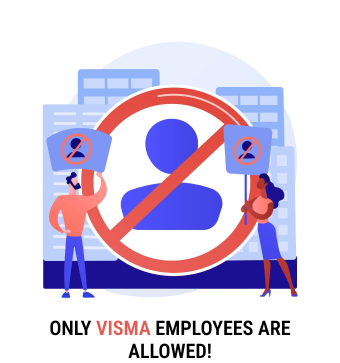
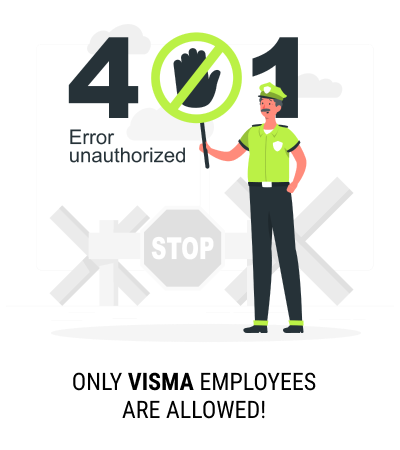
* Updated history daysUntil text calculation - to update each time user comes to history screen * Changed not authorised user image * Version update

diff --git a/history.js b/history.js
@@ -27,7 +27,7 @@ document.addEventListener("DOMContentLoaded", () => {
   // Calculate days until event
   function calculateDaysUntil(startDate) {
     const start = new Date(startDate);
-    const now = new Date("2024-12-17T08:37:36+02:00");
+    const now = new Date();
     const diffTime = start - now;
     const diffDays = Math.ceil(diffTime / (1000 * 60 * 60 * 24));
     return diffDays;
@@ -40,18 +40,9 @@ document.addEventListener("DOMContentLoaded", () => {
     "Neapmokamos atostogos": "Unpaid Leave",
   };
 
-  // Calculate number of days between dates
-  function calculateDays(startDate, endDate) {
-    const start = new Date(startDate);
-    const end = new Date(endDate);
-    const diffTime = Math.abs(end - start);
-    const diffDays = Math.ceil(diffTime / (1000 * 60 * 60 * 24)) + 1;
-    return diffDays;
-  }
-
   // Sort history items into upcoming and previous
   function sortHistoryItems(items) {
-    const now = new Date("2024-12-17T08:54:56+02:00");
+    const now = new Date();
     const sorted = items.reduce(
       (acc, item) => {
         const startDate = new Date(item.startDate);
@@ -111,17 +102,31 @@ document.addEventListener("DOMContentLoaded", () => {
     return historyItem;
   }
 
-  // Load and display email history
-  try {
-    if (!chrome.storage || !chrome.storage.local) {
-      console.error("Chrome storage is not available");
-      showEmptyState();
-      return;
-    }
+  // Update daysUntil dynamically
+  function updateDaysUntil() {
+    const upcomingItems = document.querySelectorAll(".history-item.upcoming");
+    upcomingItems.forEach((item) => {
+      const startDateText = item
+        .querySelector(".history-item-date")
+        .textContent.split(" - ")[0];
+      const startDate = new Date(startDateText);
+      const daysUntilText = item.querySelector(".history-item-days");
+      if (daysUntilText) {
+        const daysUntil = calculateDaysUntil(startDate);
+        daysUntilText.textContent =
+          daysUntil === 0
+            ? "Now"
+            : daysUntil === 1
+            ? "Tomorrow"
+            : `In ${daysUntil} days`;
+      }
+    });
+  }
 
+  // Render history items
+  function renderHistory() {
     chrome.storage.local.get(["emailHistory"], function (result) {
       const emailHistory = result.emailHistory || [];
-
       if (!emailHistory || emailHistory.length === 0) {
         showEmptyState();
         return;
@@ -129,13 +134,10 @@ document.addEventListener("DOMContentLoaded", () => {
 
       noHistory.classList.remove("visible");
 
-      // Sort history into upcoming and previous
       const { upcoming, previous } = sortHistoryItems(emailHistory);
 
-      // Clear existing content
       historyList.innerHTML = "";
 
-      // Add upcoming section if there are upcoming items
       if (upcoming.length > 0) {
         const upcomingSection = document.createElement("div");
         upcomingSection.className = "history-section";
@@ -146,7 +148,6 @@ document.addEventListener("DOMContentLoaded", () => {
         historyList.appendChild(upcomingSection);
       }
 
-      // Add previous section if there are previous items
       if (previous.length > 0) {
         const previousSection = document.createElement("div");
         previousSection.className = "history-section";
@@ -156,9 +157,14 @@ document.addEventListener("DOMContentLoaded", () => {
         });
         historyList.appendChild(previousSection);
       }
+
+      updateDaysUntil();
     });
-  } catch (error) {
-    console.error("Error loading history:", error);
-    showEmptyState();
   }
+
+  // Load and render the history on page load
+  renderHistory();
+
+  // Periodically update the daysUntil values every minute
+  setInterval(updateDaysUntil, 60000);
 });

diff --git a/docs/privacy-policy.html b/docs/privacy-policy.html
@@ -31,7 +31,7 @@
     <p><strong>Effective Date:</strong> 2024.08.07</p>
 
     <h2>1. Introduction</h2>
-    <p>This Privacy Policy describes how your information is collected, used, and shared when you use our Chrome extension VismaTech Absence. This extension is designed specifically for authorized users with an @visma.com email domain to send email requests for leave within the Visma organization.</p>
+    <p>This Privacy Policy describes how your information is collected, used, and shared when you use our Chrome extension VismaTech - Absence Manager. This extension is designed specifically for authorized users with an @visma.com email domain to send email requests for leave within the Visma organization.</p>
 
     <h2>2. Information We Collect</h2>
     <p><strong>Email Address:</strong> The extension collects and uses your email address to verify that you belong to the authorized domain (@visma.com). This is necessary to ensure that only authorized users can access the Extension's functionality.</p>

diff --git a/popup.js b/popup.js
@@ -6,7 +6,6 @@ document.addEventListener("DOMContentLoaded", () => {
   const content = document.querySelector(".content");
   const sBtn_text = document.querySelector(".sBtn-text");
   const options = document.querySelectorAll(".option");
-  const unauthorizedMessage = document.getElementById("unauthorized-message");
   const to = "vacations.lt@visma.com";
 
   // Display the extension version
